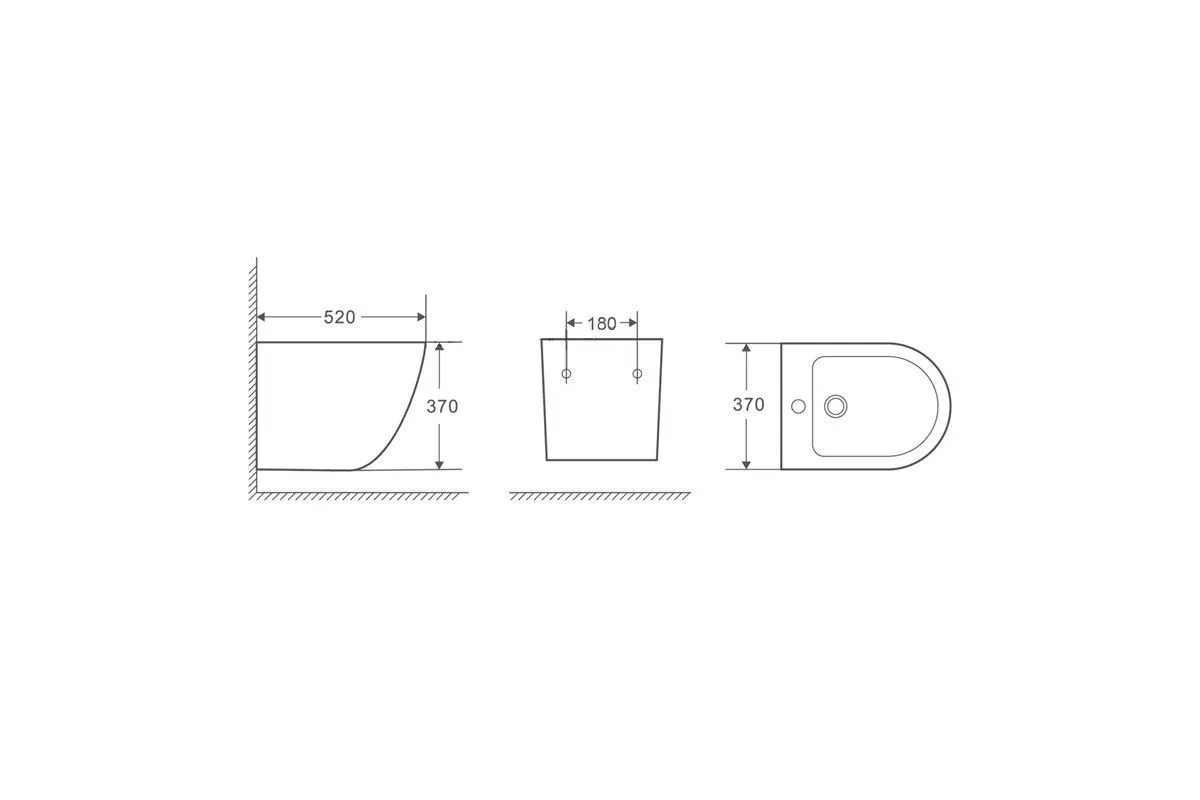
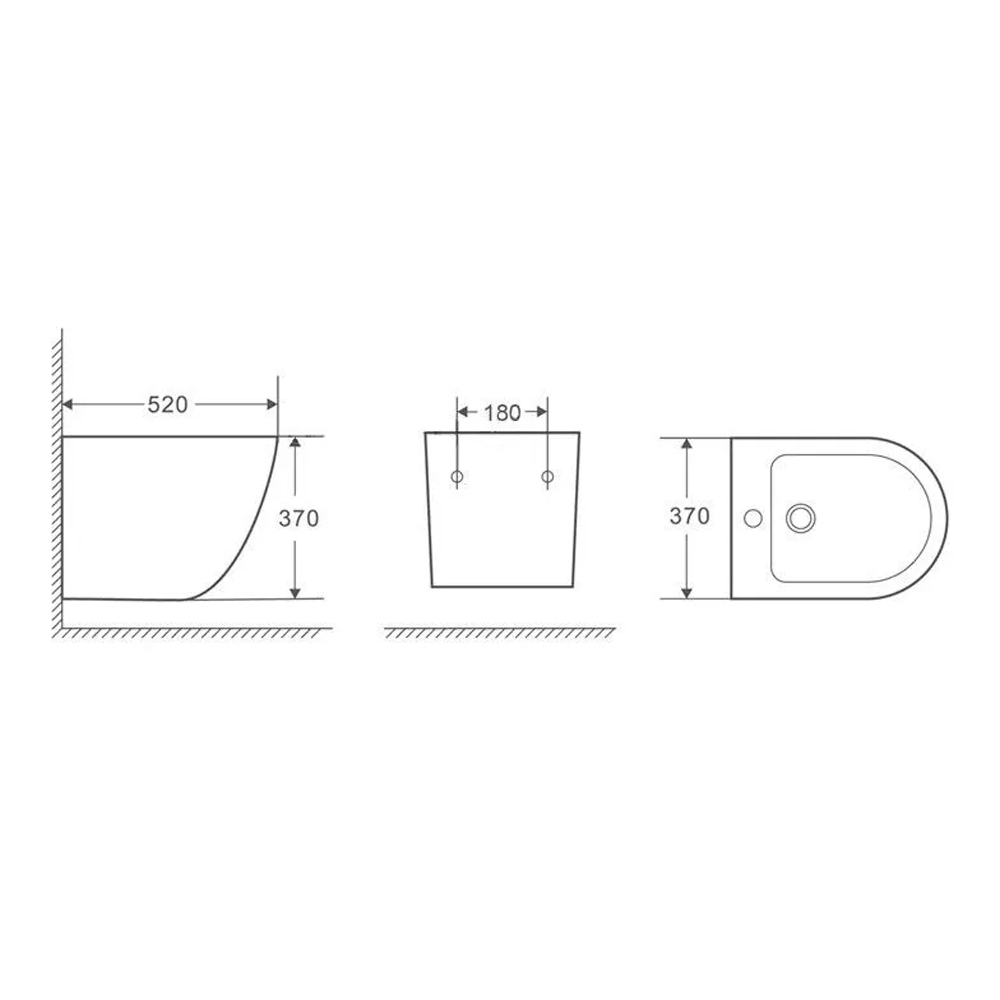
fix img

Changed region(s): [[0.031, 0.3438, 0.372, 0.6562], [0.62, 0.4062, 0.961, 0.625], [0.372, 0.375, 0.62, 0.6562]]

diff --git a/src/data/Plumbing/Toilet,Bidet/Toilet.jsx b/src/data/Plumbing/Toilet,Bidet/Toilet.jsx
@@ -1,13 +1,13 @@
 import ToiletLobninskImage1 from "../../../assets/image/plumbing/Унитаз и биде/1.11.111.png";
 import ToiletLobninskImage2 from "../../../assets/image/plumbing/Унитаз и биде/1.11.112.png";
-import ToiletLobninskImage3 from "../../../assets/image/plumbing/Унитаз и биде/1.11.113.jpg";
-import ToiletLobninskImage4 from "../../../assets/image/plumbing/Унитаз и биде/1.11.114.jpg";
-import ToiletLobninskImage5 from "../../../assets/image/plumbing/Унитаз и биде/1.11.1.2.1.jpg";
-import ToiletLobninskImage6 from "../../../assets/image/plumbing/Унитаз и биде/1.11.1.2.2.jpg";
-import ToiletLobninskImage7 from "../../../assets/image/plumbing/Унитаз и биде/1.11.1.3.1.jpg";
-import ToiletLobninskImage8 from "../../../assets/image/plumbing/Унитаз и биде/1.11.1.3.2.jpg";
-import ToiletLobninskImage9 from "../../../assets/image/plumbing/Унитаз и биде/1.11.1.3.3.jpg";
-import ToiletLobninskImage10 from "../../../assets/image/plumbing/Унитаз и биде/1.11.1.3.4.jpg";
+import ToiletLobninskImage3 from "../../../assets/image/plumbing/Унитаз и биде/1.11.113.png";
+import ToiletLobninskImage4 from "../../../assets/image/plumbing/Унитаз и биде/1.11.114.png";
+import ToiletLobninskImage5 from "../../../assets/image/plumbing/Унитаз и биде/1.11.1.2.1.png";
+import ToiletLobninskImage6 from "../../../assets/image/plumbing/Унитаз и биде/1.11.1.2.2.png";
+import ToiletLobninskImage7 from "../../../assets/image/plumbing/Унитаз и биде/1.11.1.3.1.png";
+import ToiletLobninskImage8 from "../../../assets/image/plumbing/Унитаз и биде/1.11.1.3.2.png";
+import ToiletLobninskImage9 from "../../../assets/image/plumbing/Унитаз и биде/1.11.1.3.3.png";
+import ToiletLobninskImage10 from "../../../assets/image/plumbing/Унитаз и биде/1.11.1.3.4.png";
 import ToiletLobninskImage11 from "../../../assets/image/plumbing/Унитаз и биде/1.11.1.4.1.jpg";
 import ToiletLobninskImage12 from "../../../assets/image/plumbing/Унитаз и биде/1.11.1.4.2.jpg";
 import ToiletLobninskImage13 from "../../../assets/image/plumbing/Унитаз и биде/1.11.1.4.3.jpg";
@@ -16,7 +16,7 @@ const Toilet = [
     //  Унитазы
             {
                 id: 47.1,
-                name: "Унитаз-компакт Лобненский стройфарфор Оптима эконом",
+                name: "Унитаз-компакт Лобненский Оптима эконом",
                 pricePerUnit: {
                     шт: 32000,
                     },

diff --git a/src/assets/styles/Product.css b/src/assets/styles/Product.css
@@ -165,6 +165,7 @@
   margin-top: 0.5rem;
 }
 
+
 .add-to-cart-btn:hover {
   background-color: #b00000;
 }
@@ -193,6 +194,9 @@
 }
 
 @media (max-width: 768px) {
+  .slick-slider{
+    margin-bottom: -4rem;
+  }
   .product-section {
     padding-top: 0;
   }

diff --git a/src/assets/styles/About.css b/src/assets/styles/About.css
@@ -208,7 +208,6 @@
     }
     .about-container {
       padding: 1rem;
-      background-color: rgba(255, 255, 255, 0.8); /* Полупрозрачный белый фон для контента */
       border-radius: 8px;
       margin-top: 3rem;
     }
